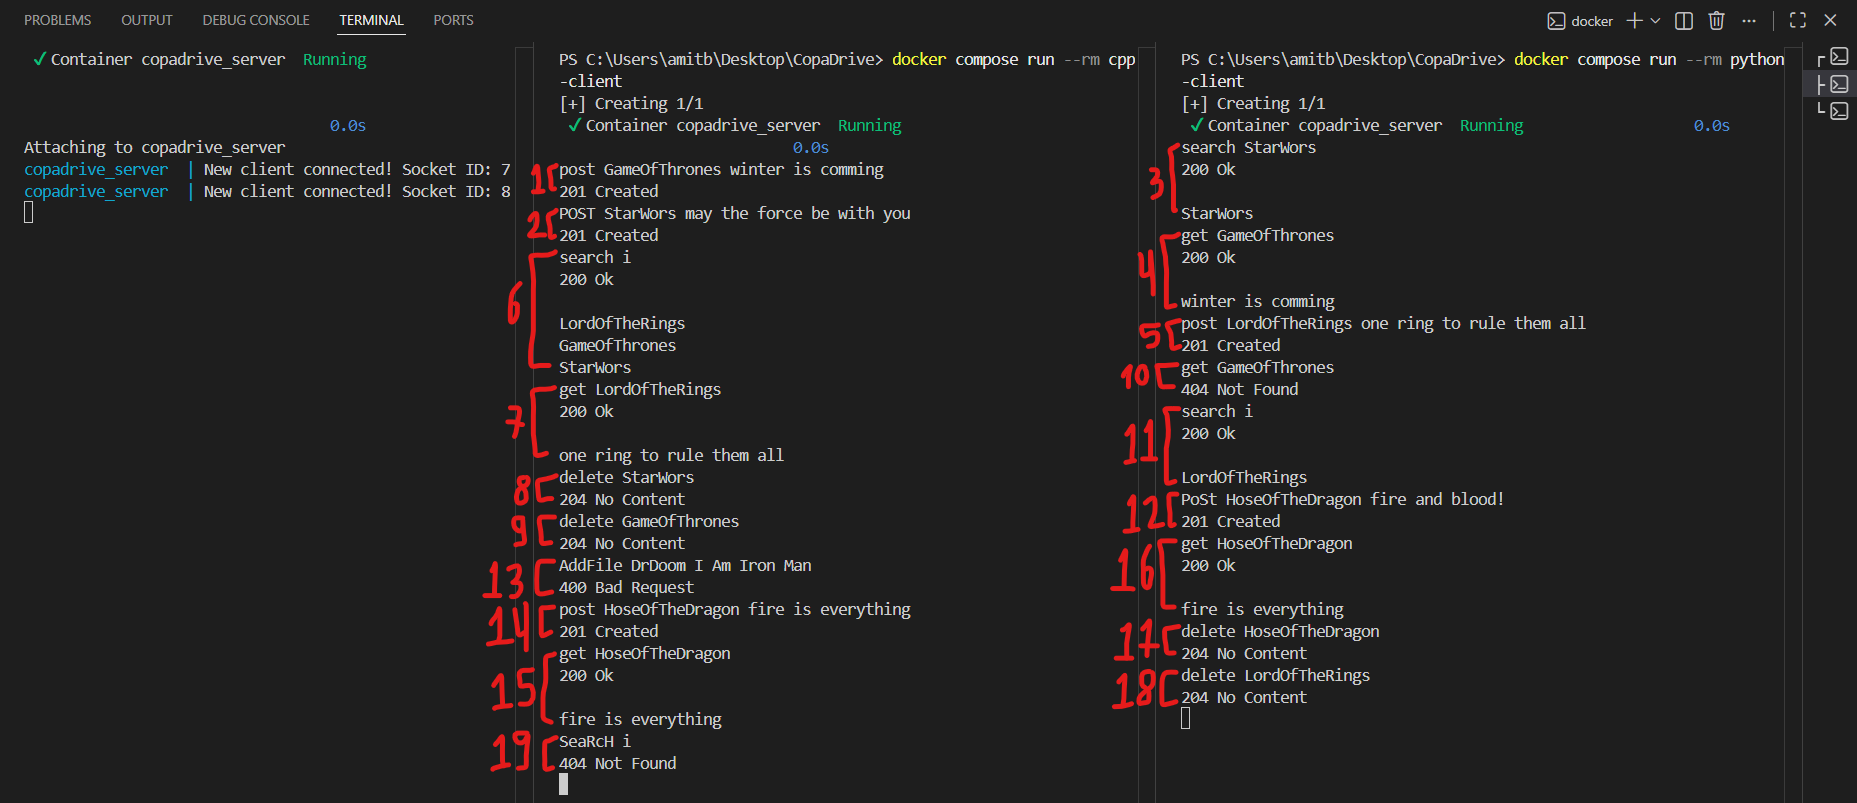
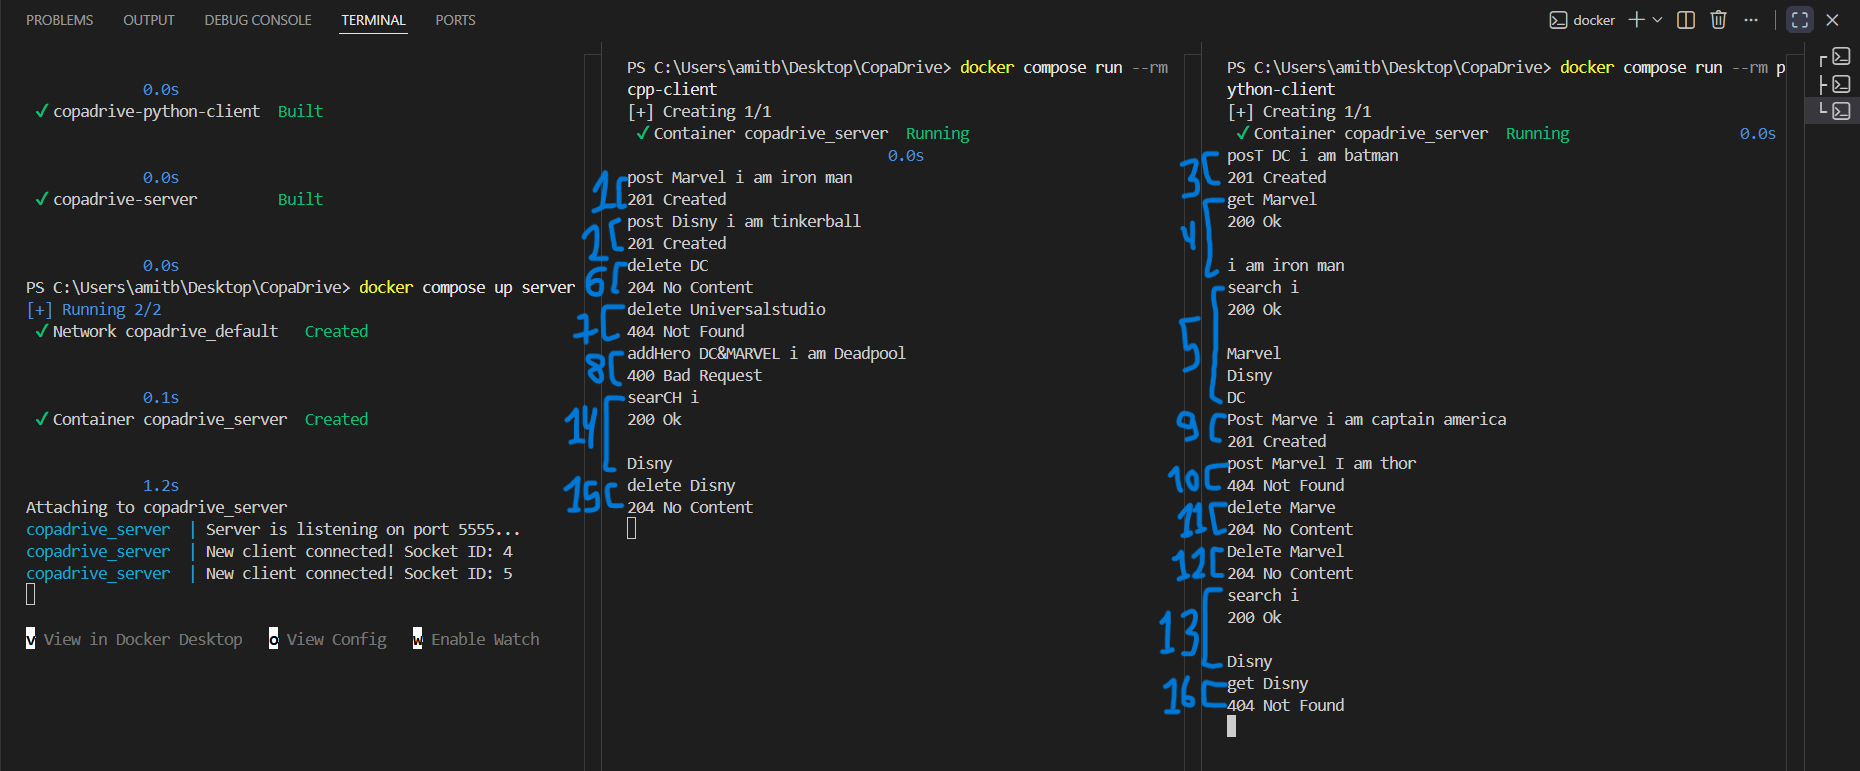
Readme

Changed region(s): [[0.0, 0.0, 1.0, 0.9961], [0.0312, 0.4981, 0.1874, 0.5603]]

diff --git a/src/PostCommand.cpp b/src/PostCommand.cpp
@@ -19,11 +19,19 @@ CommandResult PostCommand::execute(const std::vector<std::string>& comand, FileM
         return CommandResult(StatusCode::BAD_REQUEST, "");
     }
 
-    const std::string& basePath      = fm.getEnvironment();
-    const ICompressor& compressor    = fm.getCompressor();
-    std::string        compressed    = compressor.compress(content);
-    std::string        fullPath      = basePath + "/" + fileName;
+    const std::string& basePath   = fm.getEnvironment();
+    const ICompressor& compressor = fm.getCompressor();
+    std::string        fullPath   = basePath + "/" + fileName;
 
+    // NEW: do not overwrite existing files – treat as logical error (404)
+    if (std::filesystem::exists(fullPath)) {
+        return CommandResult(StatusCode::NOT_FOUND, "");
+    }
+
+    // Compress content before saving
+    std::string compressed = compressor.compress(content);
+
+    // Ensure target directory exists
     std::filesystem::create_directories(basePath);
 
     std::ofstream myFile(fullPath);
